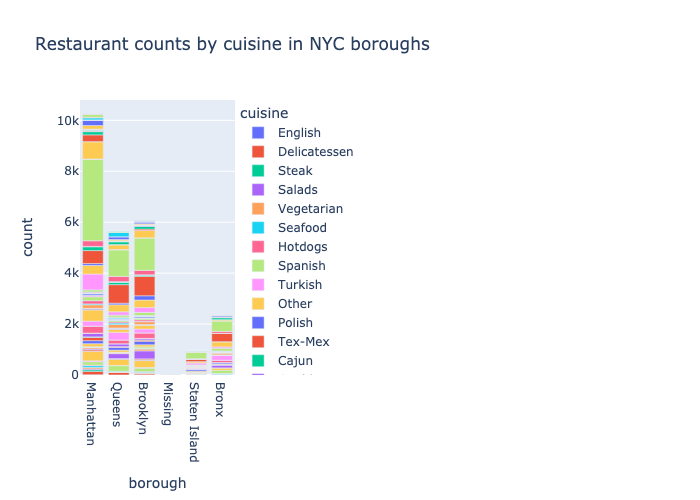
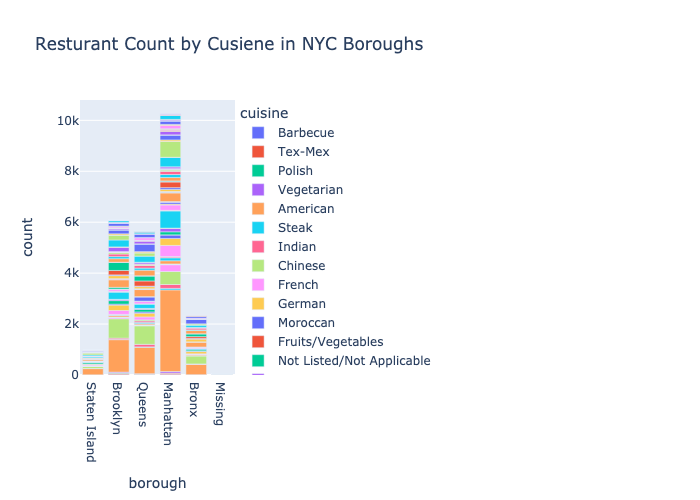
Abstracting plotting function

Changed region(s): [[0.12, 0.21, 0.33, 0.93], [0.39, 0.24, 0.63, 0.75], [0.09, 0.06, 0.63, 0.12]]

diff --git a/src/mongo_connection.py b/src/mongo_connection.py
@@ -5,7 +5,7 @@ import plotly.io as pio
 import pandas as pd
 
 
-class MongoConnector():
+class MongoDriver():
     """
     A class to connect to a MongoDB server and perform CRUD operations.
 
@@ -125,7 +125,7 @@ class MongoConnector():
 
         print(f"{len(data)} documents inserted into collection {collection_name} in the {self.db.name} database.")
     
-    def search_query(self, collection_name: str, qu: dict, proj:dict, lim=10) -> list:
+    def search_query(self, collection_name: str, qu: dict, proj:dict, lim=10, show=True) -> list:
         """
         Method to execute queries on a given collection on the established database on the MongoDB server.
 
@@ -134,6 +134,7 @@ class MongoConnector():
             query (dict): The collection query to execute.
             projection (dict): The projection to map.
             lim (int): The limit on the number of objects to return.
+            show (bool): Whether to display the given query.
         """
 
         try:
@@ -145,21 +146,23 @@ class MongoConnector():
 
         result: list = []
 
-        # print each document
+        # append each doc to the result, printing if necessary
         for document in documents:
-            print(document)
+            if show:
+                print(document)
             result.append(document)
 
         return result
 
 
-    def aggregate_query(self, collection_name: str, query) -> list:
+    def aggregate_query(self, collection_name: str, query, show=True) -> list:
         """
         Method to execute aggregate queries on a given collection on the established database on the MongoDB server.
 
         Args:
             collection_name (str): The collection name to create.
             query (dict | list): The collection query to execute.
+            show (bool): Whether to display the given query.
         """
 
         try:
@@ -169,21 +172,48 @@ class MongoConnector():
 
         documents = collection.aggregate(query)
 
-        # print each document
+        # append each doc to the result, printing if necessary
         result: list = []
         for document in documents:
-            print(document)
+            if show:
+                print(document)
             result.append(document)
 
         return result
     
     @staticmethod
-    def plot_query() -> None:
-        pass
+    def plot_query( mongo_responnse: list, 
+                    x_var: str, 
+                    y_var: str, 
+                    color_on:str, 
+                    plot_title:str, 
+                    save_as=None) -> None:
+        """
+        Method to plot visualizations from a given MongoDB query response.
+
+        Args:
+            mongo_responnse (list): The query response.
+            x_var (str): The query variable to plot on the x-axis.
+            y_var (str): The query variable to plot on the y-axis.
+            color_on (str): The query variable to color the plot on.
+            plot_title (str): Display title for the visualization.
+            save_as (None | str): Defines where and how to save the resulting plot.
+        """
+
+        # write the query output to a dataframe
+        df: pd.DataFrame = pd.DataFrame(mongo_responnse)
+
+        # create the figure given the passed x_var, y_var, color, and title
+        fig = px.bar(df, x=x_var, y=y_var, color=color_on, title=plot_title)
+
+        # display the figure and save if desired
+        fig.show()
+        if save_as is not None:
+            pio.write_image(fig, save_as)
 
 
 if __name__ == '__main__':
-    mongo: MongoConnector = MongoConnector('localhost', 27017, 'restaurants')
+    mongo: MongoDriver = MongoDriver('localhost', 27017, 'restaurants')
     mongo.connect()
 
     if mongo.collection_size("restaurants_collection") == 0:
@@ -223,7 +253,7 @@ if __name__ == '__main__':
     
     print("\n Top 10 restaurants with the highest average score, sorted by average score (min 5 reviews): \n")
     mongo.aggregate_query("restaurants_collection", 
-                                                       [{"$match": {"grades": {"$size": 5}}},
+                                                       [{"$match": {"grades":{"$gt": 5}}},
                                                         {"$project": {
                                                             "name": 1,
                                                             "borough": 1,
@@ -293,14 +323,11 @@ if __name__ == '__main__':
 
     print("\n Visualization of the distribution of restaurants across different cuisines in the NYC boroughs: \n")
     res: list = mongo.aggregate_query("restaurants_collection", [{"$group": {"_id": {"borough": "$borough", "cuisine": "$cuisine"}, "count": {"$sum": 1}}},
-                                                                    {"$project": {"borough": "$_id.borough", "cuisine": "$_id.cuisine", "count": "$count", "_id": 0}}
-                                                                    ])
+                                                                    {"$project": {"borough": "$_id.borough", "cuisine": "$_id.cuisine", "count": "$count", "_id": 0}}]
+                                                                    , show=False)
 
-
-    df: pd.DataFrame = pd.DataFrame(res)
-    fig = px.bar(df, x="borough", y="count", color="cuisine", title="Restaurant counts by cuisine in NYC boroughs")
-    fig.show()
-    pio.write_image(fig, './data/mongo_visualization.png')
+    # plot the previous query
+    mongo.plot_query(res, x_var="borough", y_var="count", color_on="cuisine", plot_title="Resturant Count by Cusiene in NYC Boroughs", save_as='./data/mongo_visualization.png')
 
     # mongo.flush_collection("restaurants_collection")
     mongo.disconnect()
